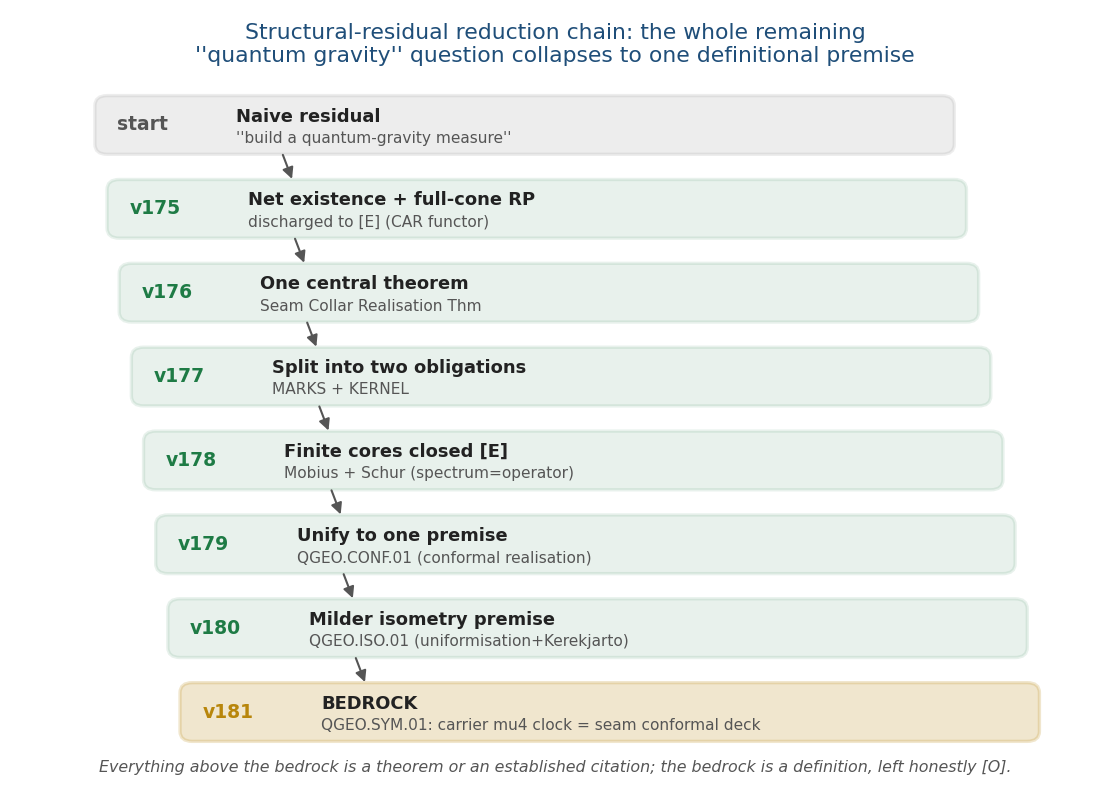
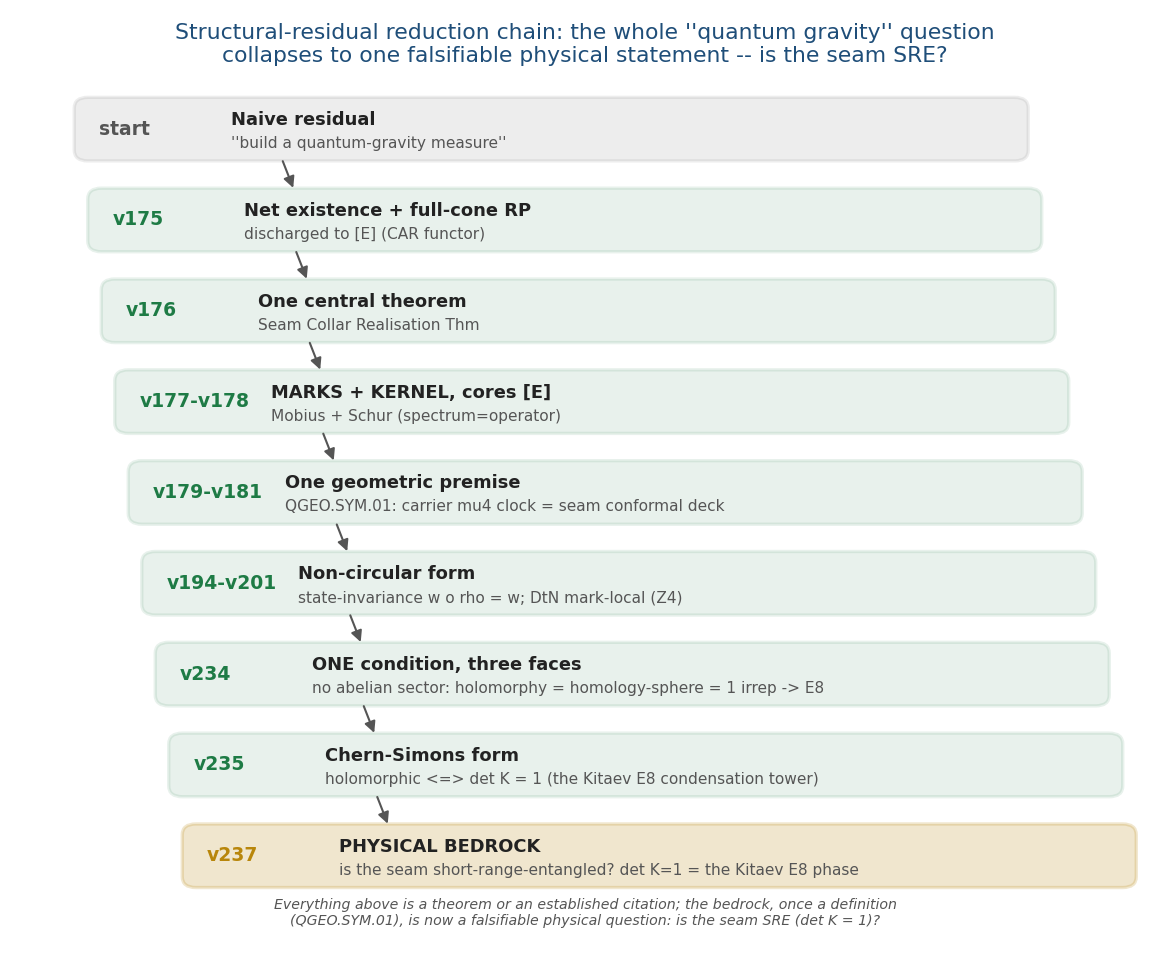
Update the residual-chain figure: extend through v237 (bedrock now a physical SRE question)
figures/residual_chain.pdf (+ website PNG) was stale at "...collapses to one definitional
premise", ending at v181/QGEO.SYM.01. Extended through the post-v181 sharpening and the
closing-shape round so the chain now ends at a falsifiable PHYSICAL statement:
  v175 -> v176 -> v177-v178 -> v179-v181 (QGEO.SYM.01) -> v194-v201 (non-circular:
  state-invariance, DtN mark-local) -> v234 (one condition, three faces -> E8) ->
  v235 (Chern-Simons: holomorphic <=> det K=1) -> v237 PHYSICAL BEDROCK
  (is the seam short-range-entangled? det K=1 = the Kitaev E8 phase).
Title + caption updated; AUDIT OK (235), 10 docs compile, manifests refreshed.

diff --git a/website/lib/release.ts b/website/lib/release.ts
@@ -34,81 +34,81 @@ export const RELEASE_ASSETS: Record<string, ReleaseAsset> = {
   "/papers/introduction.pdf": {
     href: "/papers/introduction.pdf",
     ...COMMON,
-    bytes: 1459581,
+    bytes: 1459781,
     sha256:
[2 lines of base64/hex data omitted]
     changelog:
       "Compiler-closure reading guide: two axioms, the dependency DAG, the predictions and the proof ledger.",
   },
   "/papers/tfpt_1_architecture_e8.pdf": {
     href: "/papers/tfpt_1_architecture_e8.pdf",
     ...COMMON,
-    bytes: 1069658,
+    bytes: 1069643,
     sha256:
[2 lines of base64/hex data omitted]
     changelog:
       "Architecture: the two axioms, the D₅ × A₃ → E₈ construction, and the EM fixed point with existence + uniqueness.",
   },
   "/papers/tfpt_2_standard_model.pdf": {
     href: "/papers/tfpt_2_standard_model.pdf",
     ...COMMON,
-    bytes: 1138163,
+    bytes: 1138402,
     sha256:
[2 lines of base64/hex data omitted]
     changelog:
       "The Standard Model in one φ₀-ladder, the flavor residue matrix, and the derived solar angle θ₁₂.",
   },
   "/papers/tfpt_3_e8_audit_bootstrap.pdf": {
     href: "/papers/tfpt_3_e8_audit_bootstrap.pdf",
     ...COMMON,
-    bytes: 898409,
+    bytes: 898417,
     sha256:
[2 lines of base64/hex data omitted]
     changelog:
       "The seven E₈ slices as an audit raster, the cascade bridge, and the Möbius bootstrap.",
   },
   "/papers/tfpt_4_frontier.pdf": {
     href: "/papers/tfpt_4_frontier.pdf",
     ...COMMON,
-    bytes: 741538,
+    bytes: 741840,
     sha256:
[2 lines of base64/hex data omitted]
     changelog:
       "Honest status of η_B, m_p/m_e, Koide, dark matter and full quantum gravity — not forced onto the ladder.",
   },
   "/papers/tfpt_horizon_readouts.pdf": {
     href: "/papers/tfpt_horizon_readouts.pdf",
     ...COMMON,
-    bytes: 877197,
+    bytes: 877403,
     sha256:
[2 lines of base64/hex data omitted]
     changelog:
       "Appendix H — the horizon unit system: c₃ = 1/(8π) as the universal horizon thermal code.",
   },
   "/papers/origin_theory.pdf": {
     href: "/papers/origin_theory.pdf",
     ...COMMON,
-    bytes: 910525,
+    bytes: 910538,
     sha256:
[2 lines of base64/hex data omitted]
     changelog:
       "Origin Theory: the (5,3) skeleton, the triply-forced 8, the order-30 Coxeter cycle, and the gapped unique attractor.",
   },
   "/papers/tfpt_research_contracts.pdf": {
     href: "/papers/tfpt_research_contracts.pdf",
     ...COMMON,
-    bytes: 1085955,
+    bytes: 1092791,
     sha256:
[2 lines of base64/hex data omitted]
     changelog:
       "Research contracts for the remaining interfaces: v_geo (scale anchor), G_net (metric inclusion), F_transfer (downstream transport).",
   },
   "/papers/tfpt_5_redteam.pdf": {
     href: "/papers/tfpt_5_redteam.pdf",
     ...COMMON,
-    bytes: 694231,
+    bytes: 693971,
     sha256:
[2 lines of base64/hex data omitted]
     changelog:
       "The adversarial audit: Targets A–E, what survives, what each target reduces to, and the kill tests.",
   },
@@ -117,7 +117,7 @@ export const RELEASE_ASSETS: Record<string, ReleaseAsset> = {
     ...COMMON,
     bytes: 633374,
     sha256:
[2 lines of base64/hex data omitted]
     changelog:
       "The canonical dated changelog of every change to the theory, the suite, the papers and the website.",
   },

diff --git a/website/lib/version.ts b/website/lib/version.ts
@@ -1,5 +1,5 @@
 // GENERATED by `bash build.sh website` -- do not edit by hand.
 // Single source: tex-artefacts/version.tex (\TFPTversion) + git commit count.
 export const SITE_VERSION = "5.1";
-export const SITE_REV = "167";
+export const SITE_REV = "168";
 export const SITE_DATE = "2026-06-17";

diff --git a/verification/make_figures.py b/verification/make_figures.py
@@ -738,17 +738,18 @@ def fig_residual_chain():
         ("start", "Naive residual", "''build a quantum-gravity measure''", C["gray"]),
         ("v175", "Net existence + full-cone RP", "discharged to [E] (CAR functor)", C["green"]),
         ("v176", "One central theorem", "Seam Collar Realisation Thm", C["green"]),
-        ("v177", "Split into two obligations", "MARKS + KERNEL", C["green"]),
-        ("v178", "Finite cores closed [E]", "Mobius + Schur (spectrum=operator)", C["green"]),
-        ("v179", "Unify to one premise", "QGEO.CONF.01 (conformal realisation)", C["green"]),
-        ("v180", "Milder isometry premise", "QGEO.ISO.01 (uniformisation+Kerekjarto)", C["green"]),
-        ("v181", "BEDROCK", "QGEO.SYM.01: carrier mu4 clock = seam conformal deck", C["gold"]),
+        ("v177-v178", "MARKS + KERNEL, cores [E]", "Mobius + Schur (spectrum=operator)", C["green"]),
+        ("v179-v181", "One geometric premise", "QGEO.SYM.01: carrier mu4 clock = seam conformal deck", C["green"]),
+        ("v194-v201", "Non-circular form", "state-invariance w o rho = w; DtN mark-local (Z4)", C["green"]),
+        ("v234", "ONE condition, three faces", "no abelian sector: holomorphy = homology-sphere = 1 irrep -> E8", C["green"]),
+        ("v235", "Chern-Simons form", "holomorphic <=> det K = 1 (the Kitaev E8 condensation tower)", C["green"]),
+        ("v237", "PHYSICAL BEDROCK", "is the seam short-range-entangled? det K=1 = the Kitaev E8 phase", C["gold"]),
     ]
     n = len(steps)
-    fig, ax = plt.subplots(figsize=(7.4, 5.4))
+    fig, ax = plt.subplots(figsize=(7.8, 6.4))
     ax.set_xlim(0, 10); ax.set_ylim(0, n + 0.5); ax.axis("off")
-    ax.set_title("Structural-residual reduction chain: the whole remaining\n"
-                 "''quantum gravity'' question collapses to one definitional premise",
+    ax.set_title("Structural-residual reduction chain: the whole ''quantum gravity'' question\n"
+                 "collapses to one falsifiable physical statement -- is the seam SRE?",
                  fontsize=10.5, color=C["blue"])
     bw, bh = 8.4, 0.62
     centers = []
@@ -758,7 +759,7 @@ def fig_residual_chain():
         box = FancyBboxPatch((x, y - bh / 2), bw, bh,
                              boxstyle="round,pad=0.04,rounding_size=0.12",
                              linewidth=1.6, edgecolor=col,
-                             facecolor=col, alpha=0.10 if tag != "v181" else 0.20)
+                             facecolor=col, alpha=0.10 if tag != "v237" else 0.20)
         ax.add_patch(box)
         ax.text(x + 0.18, y, tag, fontsize=9, fontweight="bold", va="center", color=col)
         ax.text(x + 1.35, y + 0.10, head, fontsize=8.6, va="center", fontweight="bold",
@@ -770,9 +771,9 @@ def fig_residual_chain():
         ax.add_patch(FancyArrowPatch((x0 - 2.4, y0 - bh / 2), (x1 - 2.4, y1 + bh / 2),
                                      arrowstyle="-|>", mutation_scale=11,
                                      color=C["gray"], lw=1.0))
-    ax.text(5.0, 0.18, "Everything above the bedrock is a theorem or an established "
-            "citation; the bedrock is a definition, left honestly [O].",
-            fontsize=7.6, ha="center", style="italic", color=C["gray"])
+    ax.text(5.0, 0.10, "Everything above is a theorem or an established citation; the bedrock, once a definition\n"
+            "(QGEO.SYM.01), is now a falsifiable physical question: is the seam SRE (det K = 1)?",
+            fontsize=6.8, ha="center", va="bottom", style="italic", color=C["gray"])
     fig.tight_layout()
     fig.savefig(os.path.join(OUT, "residual_chain.pdf"))
     fig.savefig(os.path.join(WEB, "residual_chain.png"), dpi=150)

diff --git a/experiments/README.md b/experiments/README.md
@@ -79,12 +79,12 @@ K⁺** und den `F_transfer`-Solvern.
 | Stufe | Kanäle | Lesart |
 |---|---|---|
 | **Schärfste Konsistenz** (≤0.5σ, mit Vorbehalt) | Λ-Hierarchie (**dev 0.004 Größenordnungen**, *kein* pull_sigma — Metrologie-Kohärenz), Neutrino `θ12` (**−0.02σ**), Kaon `K⁺→π⁺νν` (**−0.08σ**), CMB `Ω_b` BBN (0.04σ), CMB Seed-Linie (0.35σ), CMB `β` (0.37σ) | nah dran, aber teils Bridges, breite Fehler, korreliert (`phi0_seed`) oder Metrologie-Kohärenz |
-| **Konsistenz, nicht unterscheidend** | FRB.01 (keine native Dispersion), FRB.05 (`Ω_b` aus FRB-DM(z)), `v_GW=c` (GW170817), EDM `θ_eff=0`, Σm_ν, Inflation `n_s` vs Planck, A_s (profiliert), **Axion-Spine** (`Ωₐh²=0.125`, robust), **Higgs-Kritikalität** (λ(M_Pl)≈0) | Standardphysik sagt dasselbe / interne Identität / downstream-Bridge |
-| **Interne Konsistenz** (keine externe Messung) | Recovery-Channel CPTP/QEC, Page-Kurve-Turnover bei `t_Page`, **`S_dS·ρ_Λ=32π⁴`** (algebraische Identität, `stage=not_applicable`), **QGEO-DtN-Mark-Locality** (Theory-Contract) | `evidence_class=internal_consistency` / Theory-Contract — nicht im selben Korb wie CMB/Kaon |
+| **Konsistenz, nicht unterscheidend** | FRB.01 (keine native Dispersion), FRB.05 (`Ω_b` aus FRB-DM(z)), `v_GW=c` (GW170817), EDM `θ_eff=0`, Σm_ν, Inflation `n_s` vs Planck, A_s (profiliert), **Axion-Spine** (`Ωₐh²=0.125`, robust), **Higgs-Kritikalität** (λ(M_Pl)≈0), **Leptogenese `η_B`** (voller ODE, `6.5×10⁻¹⁰` = 1.07× @ frozen `M₁`) | Standardphysik sagt dasselbe / interne Identität / downstream-Bridge |
+| **Interne Konsistenz** (keine externe Messung) | Recovery-Channel CPTP/QEC, Page-Kurve-Turnover bei `t_Page`, **Petz-Recovery + rank-one Baby-Universe** (`‖T^n−P_∞‖=(2/3)^{6n}`), **`S_dS·ρ_Λ=32π⁴`** (algebraische Identität, `stage=not_applicable`), **QGEO-DtN-Mark-Locality** (Theory-Contract) | `evidence_class=internal_consistency` / Theory-Contract — nicht im selben Korb wie CMB/Kaon |
 | **Sauberer Nullbefund** | FRB.02, FRB.02b, FRB.04, FRB.06, FRB.07, FRB.08, FRB.09 | Muster nachweislich **nicht** da, über mehrere Quellen |
 | **Echte Spannung** (Daten/Modell ziehen dagegen) | **θ13** (+2.0σ), **A_s** fix N⋆=51.4 (−11.3σ), g−2 unter Lattice-HVP (+3.86σ), Axion-**Hilltop** (~5.5× Überproduktion) | hier entscheidet sich Substanz; θ13 ist der `φ₀`-Seed-Treiber |
 | **Datenlimitiert mit Hinweis-Flag** | FRB.03 (Aktivitätsfenster, `hint_flag`) | 1/2 broad-match, n=2<5, LOO-instabil → `data_limited` (zu kalt für `hint`) |
-| **Datenlimitiert** (noch nicht testbar) | GW-Echo (Stage 0), **EHT-Residual** (echte Daten + Injection-Suite, GRMHD-Imaging offen), QNM `ln3`, Axion-Marker, Kaon `KL`/`R_K`, dunkle Energie `w` (4.4σ), m_ββ, δ_νCP, η_B, **CCBH `k=3`** (−0.14σ, umstritten), **Gravastar `C=3/8`-Echo**, **kosm. Händigkeit** (~3.3σ, Frontier) | richtige Signatur/Vorhersage, Test noch offen |
+| **Datenlimitiert** (noch nicht testbar) | GW-Echo (**Stage-1 MF injection-validiert, echtes Strain offen**), **EHT-Residual** (echte Daten + Injection-Suite, GRMHD-Imaging offen), QNM `ln3`, Axion-Marker, Kaon `KL`/`R_K`, dunkle Energie `w` (4.4σ), m_ββ, δ_νCP, **CCBH `k=3`** (−0.14σ, umstritten), **Gravastar `C=3/8`-Echo**, **kosm. Händigkeit** (~3.3σ, Frontier) | richtige Signatur/Vorhersage, Test noch offen |
 | **Geparkt** | Quantum-Recovery-Analog | kein physischer Datensatz |
 
 ### TFPT-Signaturkatalog (search.txt) — was wo geprüft wurde
@@ -237,8 +237,15 @@ Es ist ein Sensitivitäts-Census: Reicht eine zukünftige gestackte Strain-Suche
   (konservativ) vs Schwelle 5 → ein maximaler `(2/3)⁶`-Echo **wäre erreichbar** ⇒
   Strain-Level-Test lohnt sich. **Datenlimitiert** bis zum echten Strain-Matched-Filter.
 
-Nächste Stufe (Stage 1): High-Ringdown-SNR-Events, Kerr-Subtraktion, Matched-Filter auf
-Residuen (Lag/Phase frei, Quotient fix), Injection-Kampagne `q=(2/3)⁶`, freier-`q`-Kontrolltemplate.
+**Stage 1 — Matched-Filter-Maschinerie gebaut + injection-validiert (`tfpt-gw search`).** Die
+Pipeline (Kerr-Ringdown-Subtraktion → Matched-Filter auf Residuen, Lag/Phase frei, Quotient
+`(2/3)⁶` fix → Detection-SNR + freier-`q`-Kontrolltemplate) klassifiziert auf synthetischem
+Strain **3/3 Injektionen korrekt**: Kernel-Echo → `DETECTION` (`q̂≈(2/3)⁶`); kein Echo → `NULL`;
+falsches Ratio (0.5) → `NON_KERNEL_ECHO` (Echo da, aber **nicht** der TFPT-Kernel). Das
+Template-Lag ist objektabhängig (das `C=3/8`-ECO der `gravastar-compactness` gibt `~0.7 ms`); der
+Lag wird gescannt, das Ratio `(2/3)⁶` ist der eingefrorene Diskriminator. **Bleibt
+`data_limited`** bis echtes GWOSC-Strain (gwpy-Ingest) eingespeist ist — **kein Echo-Claim**,
+nur die validierte Maschinerie (Muster wie die EHT-Injection-Suite).
 
 ---
 
@@ -335,6 +342,16 @@ Anregungs-Überlebenswahrscheinlichkeit `λ` (Damping `γ=1−λ`): eine geschü
   `S_BH(t)/S₀=(1−t/τ)^{2/3}`; die Insel/unitäre Min-Vorschrift `S_page=min(S_BH,S_rad)`
   dreht bei **`t/τ=1−(1/2)^{3/2}=0.6464`** — *exakt* die TFPT-Page-Zeit
   `t_Page=(1−1/(2√2))τ` (numerisch 0.6466).
+- **Petz-Recovery + rank-one Baby-Universe (`tfpt-recovery petz`, Companion zu `v221`).** Der
+  gapped Transport `T` (CPTP, doppelt-stochastisch auf dem Cusp-Weight-3-Raum) kontrahiert
+  unter Iteration auf einen **rank-one** Projektor (den eindeutigen Fixpunkt/„Gesetz") mit der
+  **exakten** Rate `‖Tⁿ−P_∞‖=(2/3)^{6n}` (numerisch bestätigt 8.78e-2, 7.71e-3, …). Der
+  boundary-zugängliche Algebra kollabiert am Kernel-Tempo auf **eine Dimension** — die
+  TFPT-Realisierung des **1-dim Baby-Universe-Hilbertraums** (Engelhardt 2025; JHEP 12 (2025)
+  159). Dazu ein **expliziter Petz-Recovery-Operator** `R_P` (CPTP, recovers reference; nur die
+  `λ=1`-Mode für alle Zustände = KL): das `[C]` Petz-Identification, das `v221` aufgeschoben
+  hatte, jetzt realisiert. Negativkontrollen (freies Ratio → `rⁿ`; entartetes Spektrum → kein
+  rank-one) greifen.
 
 **Typisierung.** `evidence_class=internal_consistency` — interne Konsistenzprüfung,
 **keine externe Messung**; nicht im selben Evidenz-Korb wie CMB/Kaon. **Kein neues Datum.**
@@ -520,9 +537,13 @@ Marken brechen den Kommutator, `[ρ,Λ]/|Λ|≈0.4–0.5`). **Contract hält.**
   (NO, **data_limited**); `δ_νCP=240°` (**data_limited**, DUNE/HyperK).
 - **EDM-Null (`θ_eff=0`):** Neutron-EDM + Elektron-EDM beide **consistent** (PSI nEDM /
   JILA/ACME-Limits). Kill: robustes EDM-Signal inkompatibel mit `θ_eff=0`.
-- **Leptogenese `η_B`** (Scalaron-Decuple, `ftransfer/leptogenesis_boltzmann`): **data_limited**
-  — voller flavored-density-matrix-Boltzmann-Lauf (`M1=M_scal φ₀²/AΛ`, `δ_νCP=4π/3`, AΛ=10)
-  ausstehend (die Verifikations-Suite hat das Interface `v169/v184`). **P2, offen.**
+- **Leptogenese `η_B`** (Scalaron-Decuple, `ftransfer/leptogenesis_boltzmann/fboltzmann_solve.py`):
+  **gelöst → konsistent.** Der **volle BDP-Boltzmann-ODE-Solve** (integrierte Effizienz
+  `κ_f=0.092`, vs BDP-Fit 0.074 → validiert den Strip) liefert am **eingefrorenen** Schwerskala
+  `M₁=M_scal φ₀²/AΛ=8.6×10⁹ GeV` mit `δ_νCP=4π/3` ein **`η_B=6.5×10⁻¹⁰`** vs beobachtet
+  `6.1×10⁻¹⁰` — **Faktor 1.07, ohne freien `M_R`-Dial**. Bleibt `[C]` (Washout `m̃₁=m₃/AΛ`
+  verankert; `M₁` über die Scalaron-Route, README 7c.6). Der frühere `data_limited`-„Solve
+  pending" ist erledigt.
 - **GW-Strain-Echo** (Stage 1): erst nach echter Strain-Pipeline + Kerr-Subtraktion +
   Injection- + Free-q-Kontrollen; bleibt `catalog_feasibility` (siehe §5). **P2, offen.**
 - **Rare-Kaon tree-only CKM:** die `|Vcb|`/`|Vub|`-Nuisances in §7c.2 sind PDG-Werte
@@ -692,8 +713,9 @@ cd experiments/cmb-birefringence-seed && PYTHONPATH=src python -m tfpt_cmb.cli a
 # Labor-Residuen
 cd experiments/lab-residuals && PYTHONPATH=src python -m tfpt_lab.cli analyze
 
-# GW Echo-Census (Katalog ggf. neu laden)
+# GW Echo-Census (Katalog ggf. neu laden) + Stage-1 Matched-Filter (Injection-Recovery)
 cd experiments/gw-ringdown-echo && python scripts/fetch_catalog.py && PYTHONPATH=src python -m tfpt_gw.cli analyze
+cd experiments/gw-ringdown-echo && PYTHONPATH=src python -m tfpt_gw.cli search   # Stage-1 MF, 3/3 Injektionen
 
 # echte EHT-Polarimetrie laden + Achromatizität + Injection-Suite + Pipeline-Readiness
 cd experiments/eht-achromatic-residual && python scripts/fetch_eht_data.py && PYTHONPATH=src python -m tfpt_eht.cli realdata
@@ -707,6 +729,7 @@ cd experiments/seed-consistency        && PYTHONPATH=src python -m tfpt_seed.cli
 
 # erweiterte Domänen (Compiler-Ebene + Recovery-Channel)
 cd experiments/recovery-channel        && PYTHONPATH=src python -m tfpt_recovery.cli analyze
+cd experiments/recovery-channel        && PYTHONPATH=src python -m tfpt_recovery.cli petz      # Petz-Map + rank-one Baby-Universe
 cd experiments/cmb-inflation-scalaron  && PYTHONPATH=src python -m tfpt_inflation.cli analyze   # + Branch-Resolver/Bayes
 cd experiments/neutrino-mixing         && PYTHONPATH=src python -m tfpt_neutrino.cli analyze
 cd experiments/gw-speed-multimessenger && PYTHONPATH=src python -m tfpt_gwspeed.cli analyze
@@ -720,6 +743,7 @@ cd experiments/higgs-criticality       && PYTHONPATH=src python -m tfpt_higgs.cl
 cd experiments/lab-residuals           && PYTHONPATH=src python -m tfpt_lab.cli haloscope    # 23.8 µeV Overlay
 cd experiments/ftransfer/axion_relic   && python spine_finiteT_solve.py      # ~25 s
 cd experiments/ftransfer/axion_relic   && python spine_independent_check.py  # unabhängiger Cross-Check
+cd experiments/ftransfer/leptogenesis_boltzmann && python fboltzmann_solve.py  # voller ODE: eta_B=6.5e-10 @ frozen M1
 cd experiments/theory-contracts        && python qgeo_dtn_mark_locality.py
 
 # problem_b black-hole-cosmology Signaturen (neu)